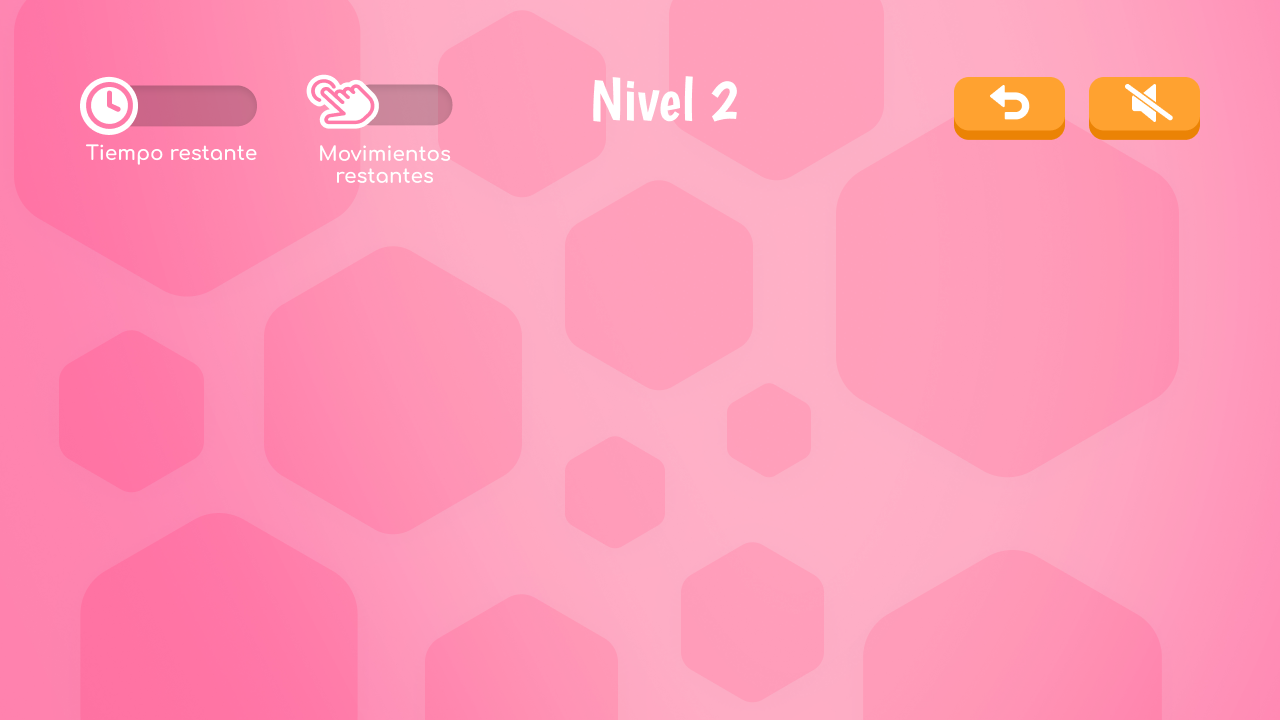
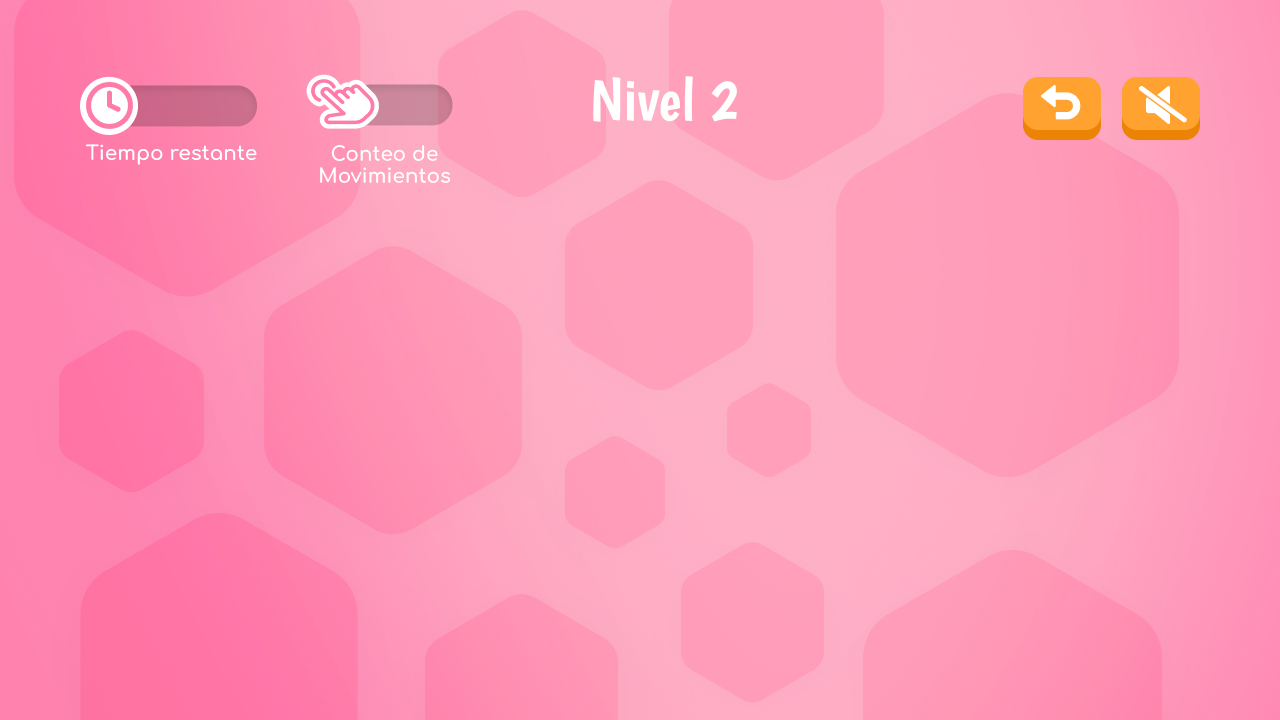
gameplay UI and music in game control finished

Changed region(s): [[0.7188, 0.0917, 0.9375, 0.2139], [0.25, 0.1833, 0.3438, 0.275]]

diff --git a/js/index.js b/js/index.js
@@ -27,11 +27,15 @@ let playing;
 let screen;
 let uitour;
 let soundBtn;
+let finalScore;
 
 var dakiti;
 
 let menuBg;
 let musicOn;
+let mgameOn;
+let badmov;
+let goodmov;
 
 let inst1Bg;
 let inst2Bg;
@@ -41,6 +45,10 @@ let inst5;
 let inst6;
 let game1;
 let game2;
+let lvlComp;
+let final1;
+let final2;
+let final3;
 //-----------Will
 
 
@@ -70,6 +78,7 @@ function setup() {
     createCanvas(1280, 720);
     screen = 0;
     uitour = 0;
+    finalScore = 0;
     soundBtn = true;
     dakiti.play();
     dakiti.setVolume(0.05);
@@ -87,8 +96,16 @@ function setup() {
     inst6 = loadImage('images/menu-inst/inst6.png');
     game1 = loadImage('images/menu-inst/game1.png');
     game2 = loadImage('images/menu-inst/game2.png');
+    lvlComp = loadImage('images/menu-inst/lvlcomplete.png');
+    final1 = loadImage('images/menu-inst/final1.png');
+    final2 = loadImage('images/menu-inst/final2.png');
+    final3 = loadImage('images/menu-inst/final3.png');
 
     musicOn = loadImage('images/ui/musicon.png');
+    mgameOn = loadImage('images/ui/mgameon.png');
+    badmov = loadImage('images/ui/bad.png');
+    goodmov = loadImage('images/ui/good.png');
+
     //----------Will
 
     frameRate(30);
@@ -130,9 +147,13 @@ function draw() {
             }
             break;
         case 5:
-
             if (playing) {
-                background(backgroundColor);
+                if (currentLevel == 1) {
+                    image(game1, 0, 0);
+                } else if (currentLevel == 2) {
+                    image(game2, 0, 0);
+                }
+
                 fill(255, 255, 255);
                 // Draw the game.
                 gameToDraw = game.currentGame;
@@ -206,10 +227,10 @@ function draw() {
                 //Draw time
                 fill(255, 255, 255)
                 textSize(36);
-                text(game.getTime(), 140, 100);
-                text(game.movements, 140, 150);
-                text(game.errors, 140, 180);
-                text(currentLevel, 140, 50);
+                text(game.getTime(), 138, 120);
+                text(game.movements, 380, 120);
+                //text(game.errors, 140, 180);
+                //text(currentLevel, 140, 50);
 
 
                 if (game.finished) {
@@ -218,20 +239,30 @@ function draw() {
 
             }
 
+            //Sound Btn Feedback
+            if (soundBtn == true) {
+                image(mgameOn, 0, 0);
+            }
+
             break;
 
         case 6:
-            background('black');
-            fill(255, 255, 255)
-            textSize(36);
-            text('Level 2', 140, 100);
+            image(lvlComp, 0, 0);
             break;
 
         case 7:
-            background('black');
-            fill(255, 255, 255)
-            textSize(36);
-            text('Puntaje', 140, 100);
+            switch (finalScore) {
+                case 0:
+                    image(final1, 0, 0);
+                    break;
+                case 1:
+                    image(final2, 0, 0);
+                    break;
+                case 2:
+                    image(final3, 0, 0);
+                    break;
+            }
+
             break;
     }
 
@@ -364,6 +395,25 @@ function mousePressed() {
             break;
 
         case 5:
+
+            //Music Btn 
+
+            if ((mouseX > 1122 && mouseX < 1200) && (mouseY > 77 && mouseY < 140)) {
+                soundBtn = !soundBtn;
+                if (soundBtn == true) {
+                    dakiti.play();
+                } else if (soundBtn == false) {
+                    dakiti.stop();
+                }
+            }
+
+            //Restart Btn 
+
+            if ((mouseX > 1023 && mouseX < 1101) && (mouseY > 77 && mouseY < 140)) {
+
+            }
+
+
             //Calculate bottles area.
 
             let counter = 1;
@@ -455,10 +505,10 @@ function mousePressed() {
                                     }
 
                                     game.addMove();
-                                    backgroundColor = 'green';
-                                    setTimeout(function() {
+                                    image(goodmov, 0, 0);
+                                    setTimeout(function () {
                                         backgroundColor = 'black';
-                                    }, 100);
+                                    }, 1000);
 
                                     return false;
 
@@ -470,10 +520,10 @@ function mousePressed() {
 
 
                             game.addError();
-                            backgroundColor = 'red';
-                            setTimeout(function() {
+                            image(badmov, 0, 0);
+                            setTimeout(function () {
                                 backgroundColor = 'black';
-                            }, 100);
+                            }, 1000);
 
                             return false;
                         }
@@ -508,6 +558,7 @@ function mousePressed() {
 
                 drawTakeOut = false;
             }
+
 
             return false;
 
